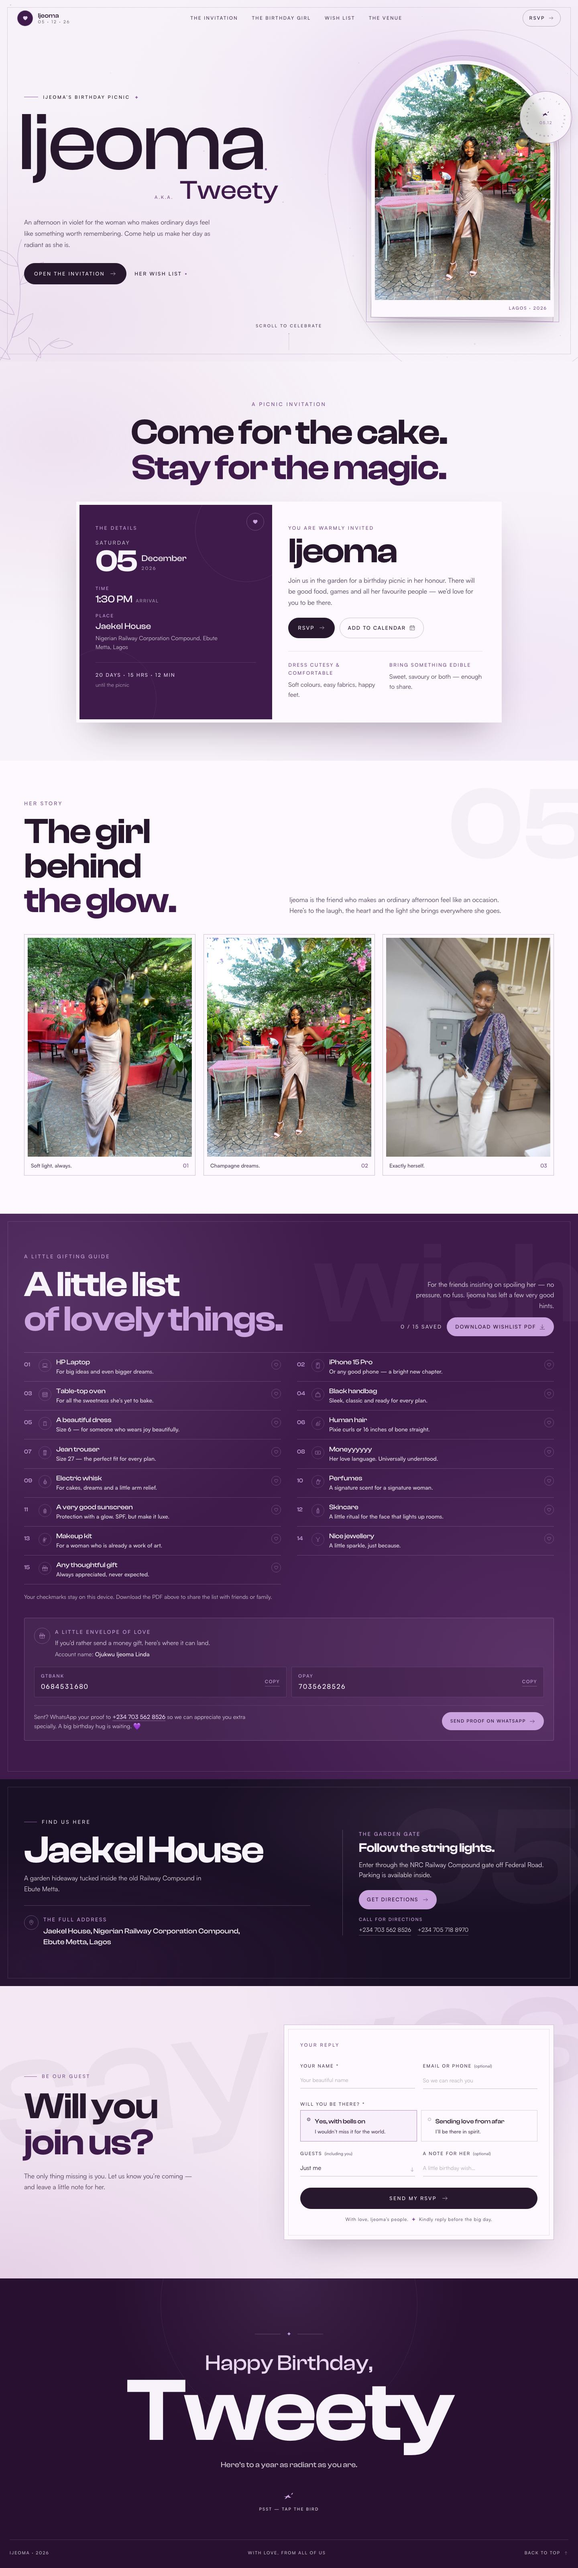
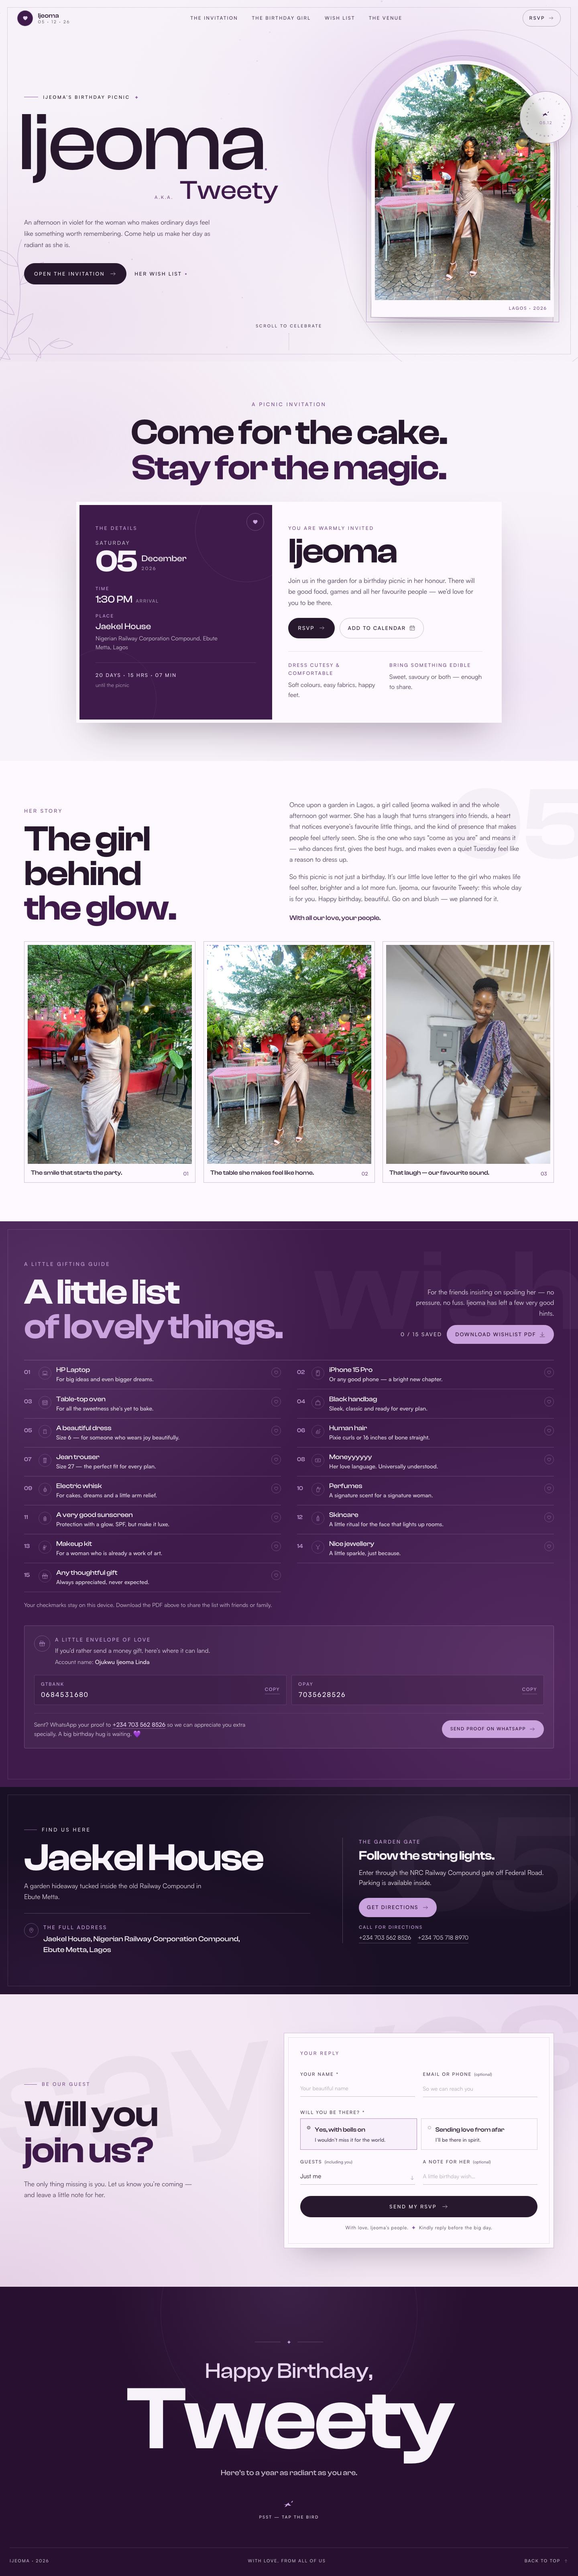
Rewrite story with warmer personal copy and captions

diff --git a/src/components/Story.jsx b/src/components/Story.jsx
@@ -5,17 +5,17 @@ const photos = [
   {
     src: "ijeoma-story.jpg",
     alt: "Ijeoma smiling in a champagne satin dress in a Lagos garden",
-    caption: "Soft light, always.",
+    caption: "The smile that starts the party.",
   },
   {
     src: "ijeoma-garden.jpg",
     alt: "Ijeoma standing in a tropical garden courtyard with string lights",
-    caption: "Champagne dreams.",
+    caption: "The table she makes feel like home.",
   },
   {
     src: "ijeoma-stairs.jpg",
     alt: "Ijeoma laughing in a patterned purple kimono and white trousers",
-    caption: "Exactly herself.",
+    caption: "That laugh — our favourite sound.",
   },
 ];
 
@@ -37,10 +37,24 @@ export default function Story() {
               <span className="text-plum">the glow.</span>
             </h2>
           </Reveal>
-          <Reveal as="p" delay={100} className="max-w-[560px] pb-1 text-[1rem] leading-[1.7] text-ink-soft">
-            Ijeoma is the friend who makes an ordinary afternoon feel like an
-            occasion. Here’s to the laugh, the heart and the light she brings
-            everywhere she goes.
+          <Reveal as="div" delay={100} className="max-w-[580px] pb-1">
+            <p className="text-[1rem] leading-[1.7] text-ink-soft">
+              Once upon a garden in Lagos, a girl called Ijeoma walked in and the
+              whole afternoon got warmer. She has a laugh that turns strangers into
+              friends, a heart that notices everyone’s favourite little things, and
+              the kind of presence that makes people feel utterly seen. She is the
+              one who says “come as you are” and means it — who dances first, gives the
+              best hugs, and makes even a quiet Tuesday feel like a reason to dress up.
+            </p>
+            <p className="mt-4 text-[1rem] leading-[1.7] text-ink-soft">
+              So this picnic is not just a birthday. It’s our little love letter to
+              the girl who makes life feel softer, brighter and a lot more fun.
+              Ijeoma, our favourite Tweety: this whole day is for you. Happy
+              birthday, beautiful. Go on and blush — we planned for it.
+            </p>
+            <p className="mt-5 font-serif text-[1.05rem] font-medium tracking-[-0.01em] text-plum">
+              With all our love, your people.
+            </p>
           </Reveal>
         </div>
 
@@ -58,9 +72,13 @@ export default function Story() {
                 loading="lazy"
                 className="aspect-[3/4] w-full object-cover transition-transform duration-700 group-hover:scale-[1.03]"
               />
-              <figcaption className="flex items-center justify-between gap-3 px-2 pb-1 pt-3 text-[0.82rem] font-medium text-ink-soft">
-                <span>{photo.caption}</span>
-                <span className="text-orchid-dark">0{index + 1}</span>
+              <figcaption className="flex items-start justify-between gap-3 px-2 pb-1 pt-3">
+                <span className="font-serif text-[0.98rem] font-medium leading-snug tracking-[-0.005em] text-ink">
+                  {photo.caption}
+                </span>
+                <span className="pt-0.5 text-[0.78rem] font-medium text-orchid-dark">
+                  0{index + 1}
+                </span>
               </figcaption>
             </Reveal>
           ))}

diff --git a/README.md b/README.md
@@ -10,6 +10,8 @@ Directions: **+234 703 562 8526** or **+234 705 718 8970**.
 
 ![One-tap opening gate](preview/opening-gate.jpg)
 
+![Her story](preview/story.jpg)
+
 ![The downloadable wish-list PDF](preview/wishlist-pdf.jpg)
 
 ## Stack
@@ -33,7 +35,7 @@ Directions: **+234 703 562 8526** or **+234 705 718 8970**.
 - **RSVP:** short form, confirmation, native share and `.ics` calendar download.
 - **Extras:** floating music control, confetti, soft dust, scroll reveals, reduced-motion support.
 
-The main page is intentionally much shorter than the previous version: roughly **6,400px on desktop** and **8,300px on mobile**, with repeated copy removed.
+The main page is intentionally much shorter than the previous version: roughly **6,400px on desktop** and **8,600px on mobile**, with repeated copy removed.
 
 ## Money gifts
 
